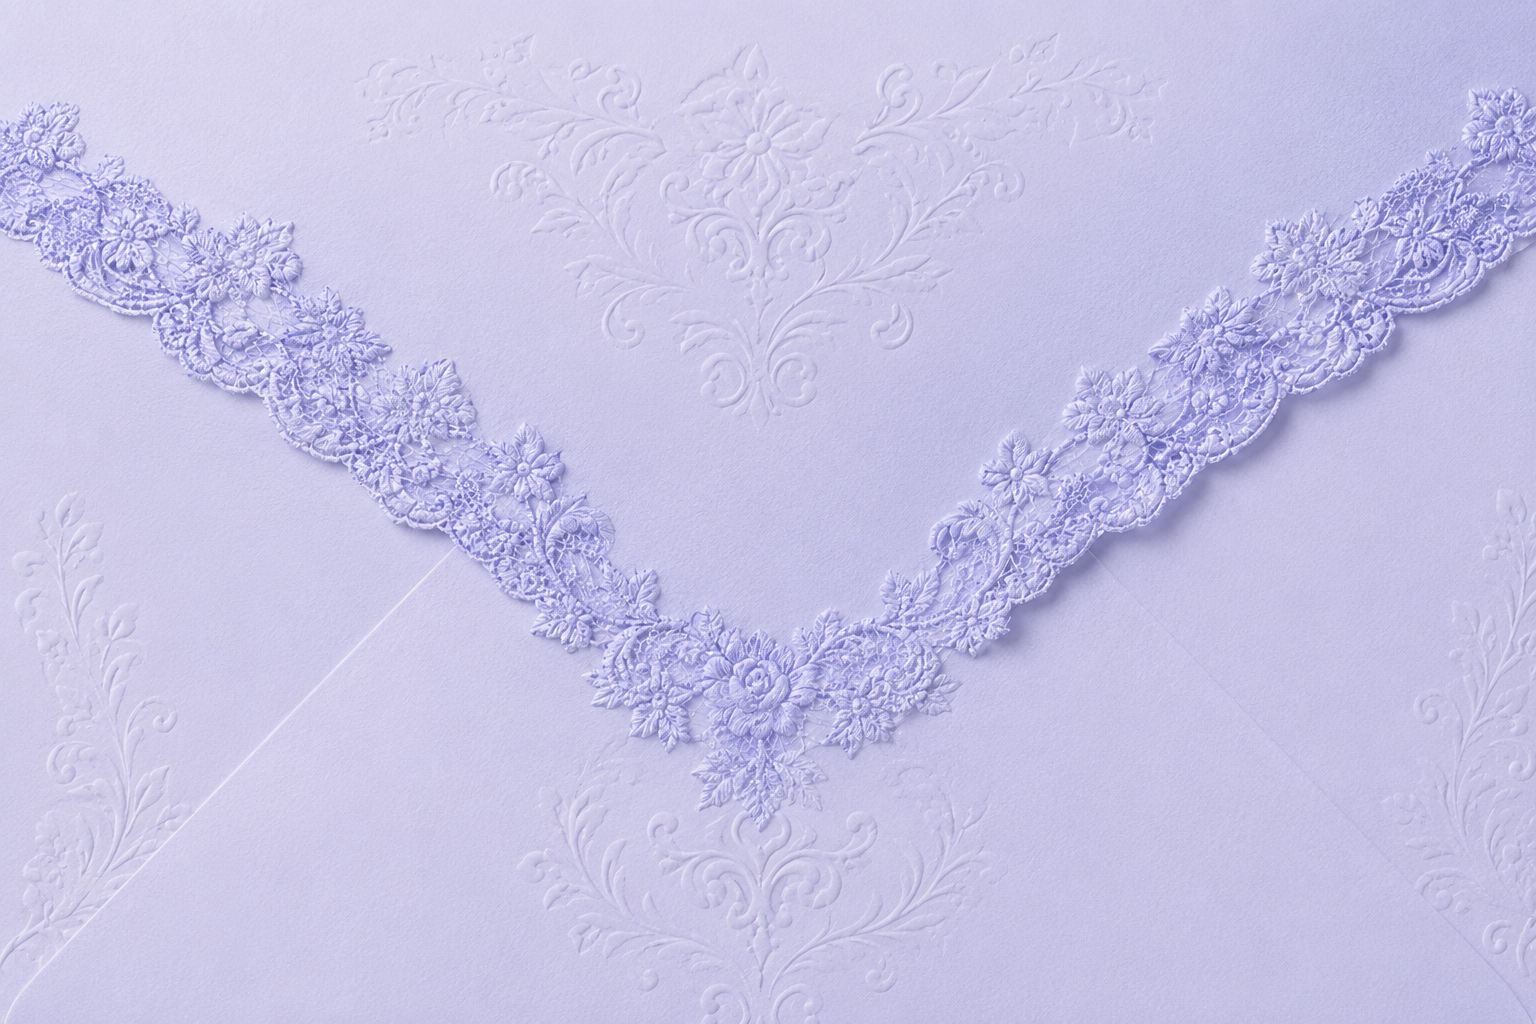
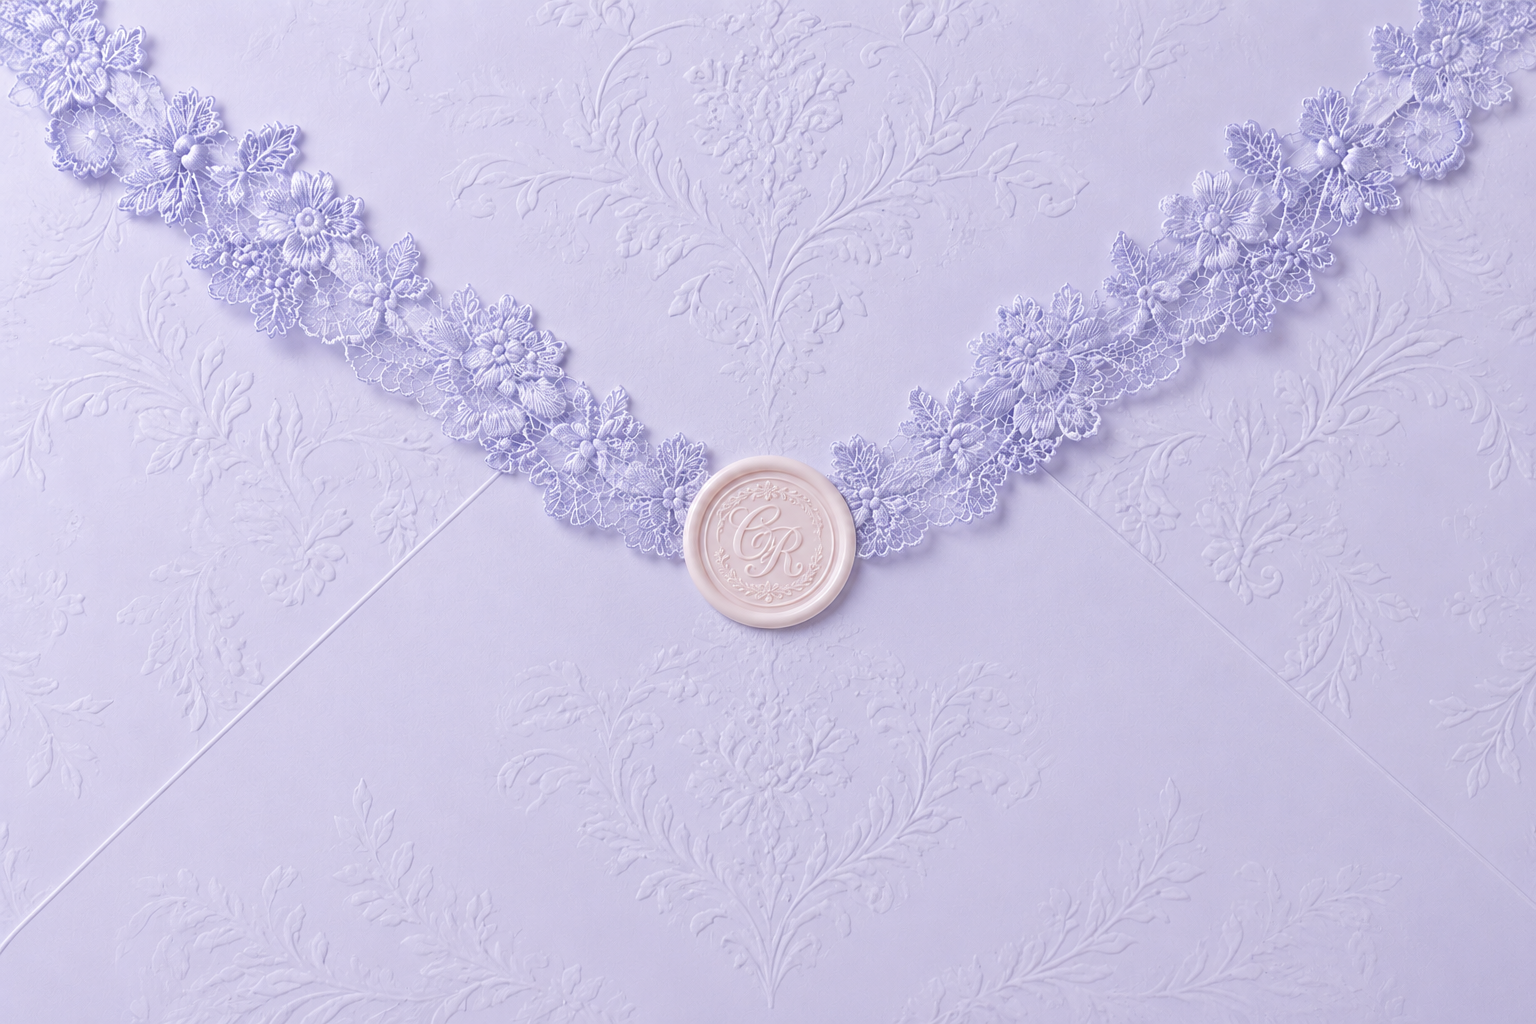
invitation opener updated

diff --git a/styles.css b/styles.css
@@ -3062,32 +3062,26 @@ body.no-scroll {
 .intro.opening .env-light { opacity: 0; transition: opacity .6s ease; }
 
 /* ============================================================
-   Wax seal — champagne #f1e9c7, attached to the top flap.
-   The seal-layer is a full-size, un-clipped plane that shares
-   the top flap's origin + open transform, so the intact seal
-   rides rigidly with the flap as it opens.
+   Wax seal — now drawn into the invitation image itself.
+   What remains here is only an invisible clickable hotspot,
+   positioned over the seal in the artwork, so tapping it opens
+   the invitation exactly as the code-built seal used to.
    ============================================================ */
 .seal-layer {
   position: absolute;
   inset: 0;
   z-index: 6;
-  transform-origin: top center;
-  transform: rotateX(0deg);
-  transform-style: preserve-3d;
-  transition: transform 1s cubic-bezier(.22, 1, .36, 1);
   pointer-events: none;
-  will-change: transform;
-}
-
-.intro.opening .seal-layer {
-  transform: rotateX(-168deg) translateZ(34px);
 }
 
 .seal {
   position: absolute;
   left: 50%;
-  top: 61%;   /* exactly at the lace-V crossing where the flaps meet */
-  width: clamp(92px, 12vmax, 150px);
+  top: 53%;      /* centered on the wax seal drawn into the image */
+  /* sized off the envelope HEIGHT (the seal is a fixed fraction of the
+     image height in every layout), so this square fully circumscribes the
+     seal — its whole face AND its edges are clickable — on desktop & mobile */
+  height: 22%;
   aspect-ratio: 1;
   transform: translate(-50%, -50%);
   border: 0;
@@ -3096,12 +3090,6 @@ body.no-scroll {
   cursor: pointer;
   pointer-events: auto;
   -webkit-tap-highlight-color: transparent;
-  animation: seal-breathe 3.6s ease-in-out infinite;
-}
-
-@keyframes seal-breathe {
-  0%, 100% { transform: translate(-50%, -50%) scale(1); }
-  50%      { transform: translate(-50%, -50%) scale(1.035); }
 }
 
 .seal:focus-visible {
@@ -3110,111 +3098,8 @@ body.no-scroll {
   border-radius: 50%;
 }
 
-/* small realistic shadow beneath the seal */
-.seal-shadow {
-  position: absolute;
-  left: 50%;
-  bottom: -8%;
-  width: 78%;
-  height: 22%;
-  transform: translateX(-50%);
-  background: radial-gradient(50% 50% at 50% 50%, rgba(95, 82, 55, .42), transparent 72%);
-  filter: blur(5px);
-  z-index: 0;
-}
-
-.seal-face {
-  position: absolute;
-  inset: 0;
-  z-index: 2;
-  display: grid;
-  place-items: center;
-  /* organic wax silhouette + slight melt imperfections */
-  border-radius: 49% 51% 52% 48% / 53% 47% 53% 47%;
-  background:
-    radial-gradient(58% 54% at 38% 30%, #fbf1e2 0%, #f6e5cf 26%, #efd7b9 52%, #d9bd97 82%, #c4a67d 100%);
-  box-shadow:
-    inset 0 4px 8px rgba(255, 255, 255, .55),
-    inset 0 -11px 20px rgba(140, 105, 60, .5),
-    inset 0 0 0 2px rgba(196, 166, 120, .55),
-    0 3px 6px rgba(115, 88, 50, .4);
-  overflow: hidden;
-}
-
-/* glossy top highlight */
-.seal-face::before {
-  content: "";
-  position: absolute;
-  left: 18%;
-  top: 10%;
-  width: 48%;
-  height: 32%;
-  border-radius: 50%;
-  background: radial-gradient(60% 60% at 40% 30%, rgba(255, 255, 255, .78), transparent 70%);
-  filter: blur(2px);
-  z-index: 2;
-  pointer-events: none;
-}
-
-/* fine wax speckle / imperfection texture */
-.seal-face::after {
-  content: "";
-  position: absolute;
-  inset: 0;
-  border-radius: inherit;
-  background-image:
-    radial-gradient(rgba(255, 255, 255, .18) 1px, transparent 1.5px),
-    radial-gradient(rgba(120, 100, 50, .16) 1px, transparent 1.5px);
-  background-size: 8px 8px, 12px 12px;
-  background-position: 0 0, 4px 5px;
-  mix-blend-mode: soft-light;
-  opacity: .6;
-  pointer-events: none;
-}
-
-.seal-ring {
-  position: absolute;
-  inset: 12%;
-  border-radius: 50%;
-  border: 1.5px solid rgba(186, 156, 108, .55);
-  box-shadow: inset 0 2px 4px rgba(140, 105, 60, .5), inset 0 -2px 4px rgba(255, 255, 255, .45);
-}
-
-/* initials in the wax colour (#efd7b9) with a thin contrasting outline,
-   so they read as embossed foil pressed into the wax */
-.seal-mono {
-  position: relative;
-  z-index: 1;
-  display: flex;
-  align-items: center;
-  gap: .04em;
-  font-family: var(--serif);
-  font-weight: 600;
-  font-size: clamp(24px, 8.4vmin, 40px);
-  line-height: 1;
-  color: #efd7b9;
-  -webkit-text-stroke: .6px #9c7038;
-  text-shadow: 0 1px 1px rgba(255, 255, 255, .4), 0 1px 2px rgba(110, 80, 40, .5);
-}
-.seal-mono .amp {
-  font-style: italic;
-  font-weight: 500;
-  font-size: .62em;
-  margin: 0 .02em;
-  opacity: .95;
-}
-
-/* Step 1 — brief press inward on tap (seal stays whole) */
-.seal.pressing {
-  animation: none;
-  transform: translate(-50%, -50%) scale(.9);
-  transition: transform .18s cubic-bezier(.4, 0, .6, 1);
-}
-
-/* once opening, hold the seal steady while it rides the flap */
+/* once opening, drop the hotspot so it can't be re-clicked */
 .intro.opening .seal {
-  animation: none;
-  transform: translate(-50%, -50%);
   pointer-events: none;
 }
 
@@ -3254,9 +3139,9 @@ body.no-scroll {
   .env-flap {
     background-size: cover;
   }
-  .seal {
-    width: clamp(84px, 22vw, 132px);
-  }
+  /* the seal hotspot keeps its height-based square sizing here too — the
+     seal stays a fixed fraction of the (full-height) image on portrait/
+     mobile, so no width override is needed */
 }
 
 /* short / landscape screens: keep the seal from crowding the hint */

diff --git a/index.html b/index.html
@@ -623,21 +623,13 @@
       <div class="env-flap top" aria-hidden="true"></div>
       <div class="env-flap bottom" aria-hidden="true"></div>
 
-      <!-- champagne wax seal at the V point — stays intact and rides the
-           top flap as it opens (wrapped in a plane that shares the flap's
-           3D transform-origin) -->
+      <!-- the wax seal is now part of the invitation image itself; this is
+           just an invisible clickable hotspot sitting over the drawn seal
+           so tapping it opens the invitation exactly as before -->
       <div class="seal-layer" id="sealLayer">
-        <button class="seal" id="seal" type="button"
-          aria-label="Tap the wax seal to open the invitation">
-          <span class="seal-shadow" aria-hidden="true"></span>
-          <span class="seal-face">
-            <span class="seal-ring" aria-hidden="true"></span>
-            <span class="seal-mono">C<span class="amp">&amp;</span>R</span>
-          </span>
-        </button>
+        <button class="seal" id="seal" type="button" aria-label="Tap the wax seal to open the invitation"></button>
       </div>
 
-      <p class="env-hint" id="hint">tap the wax seal to open</p>
     </div>
   </div>
 
